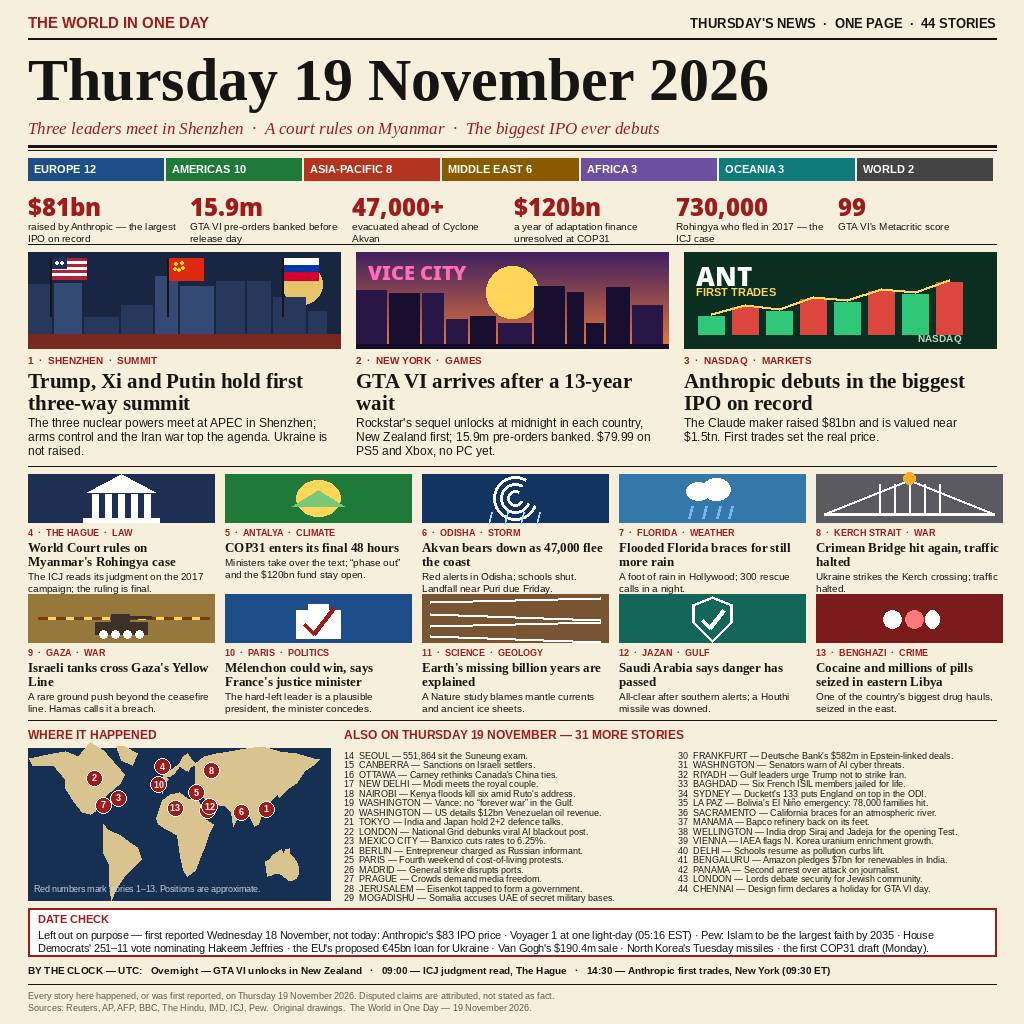
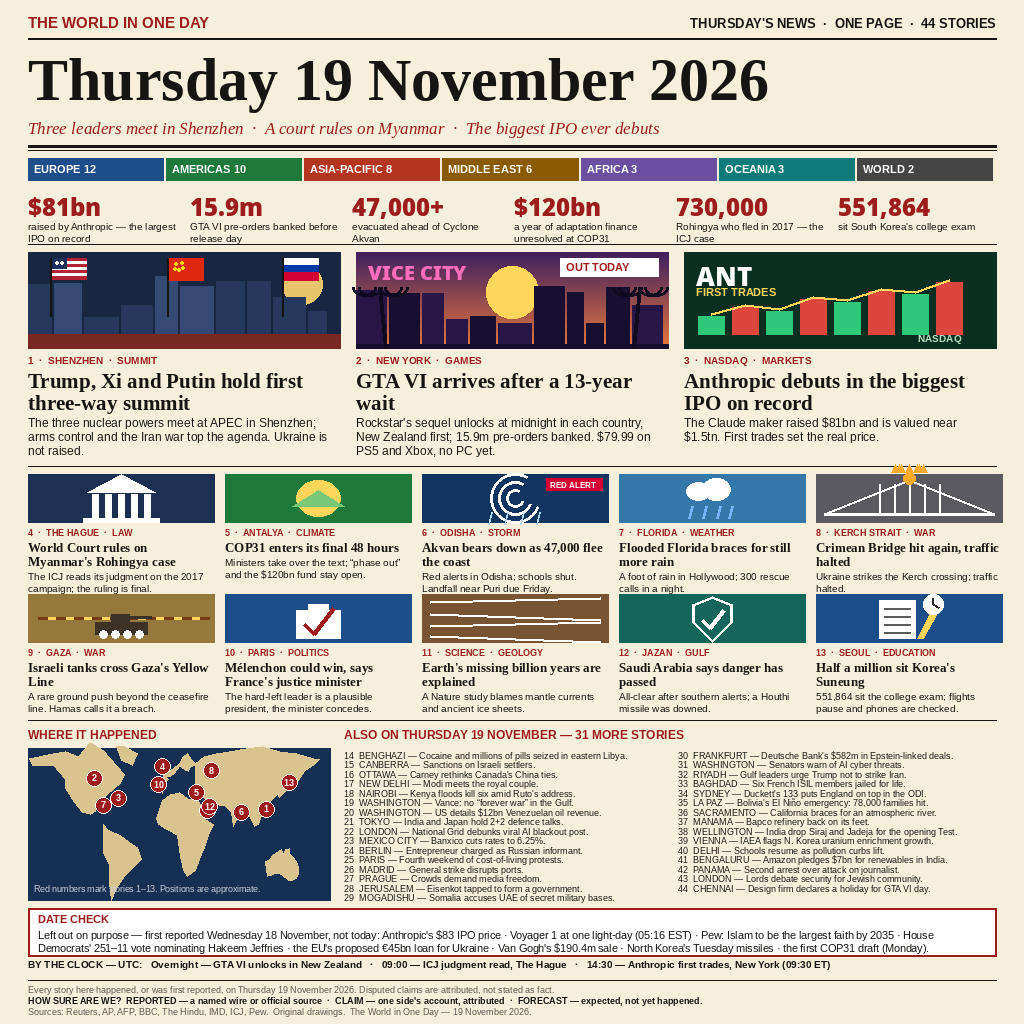
News image 19 Nov v2: Suneung promoted to card 13, richer hero art, HOW SURE ARE WE legend

diff --git a/main.ts b/main.ts
@@ -2,7 +2,7 @@
 //
 // Entry program for the make.fun news-image-20261119 competition.
 // The artwork is a single pre-rendered front page (entry.png, 1024x1024,
-// 196,834 bytes) drawn with real typography, so every headline is crisp
+// 203,352 bytes) drawn with real typography, so every headline is crisp
 // and legible at judging size. This program copies that image, byte for
 // byte, to the output directory the grader provides.
 //
